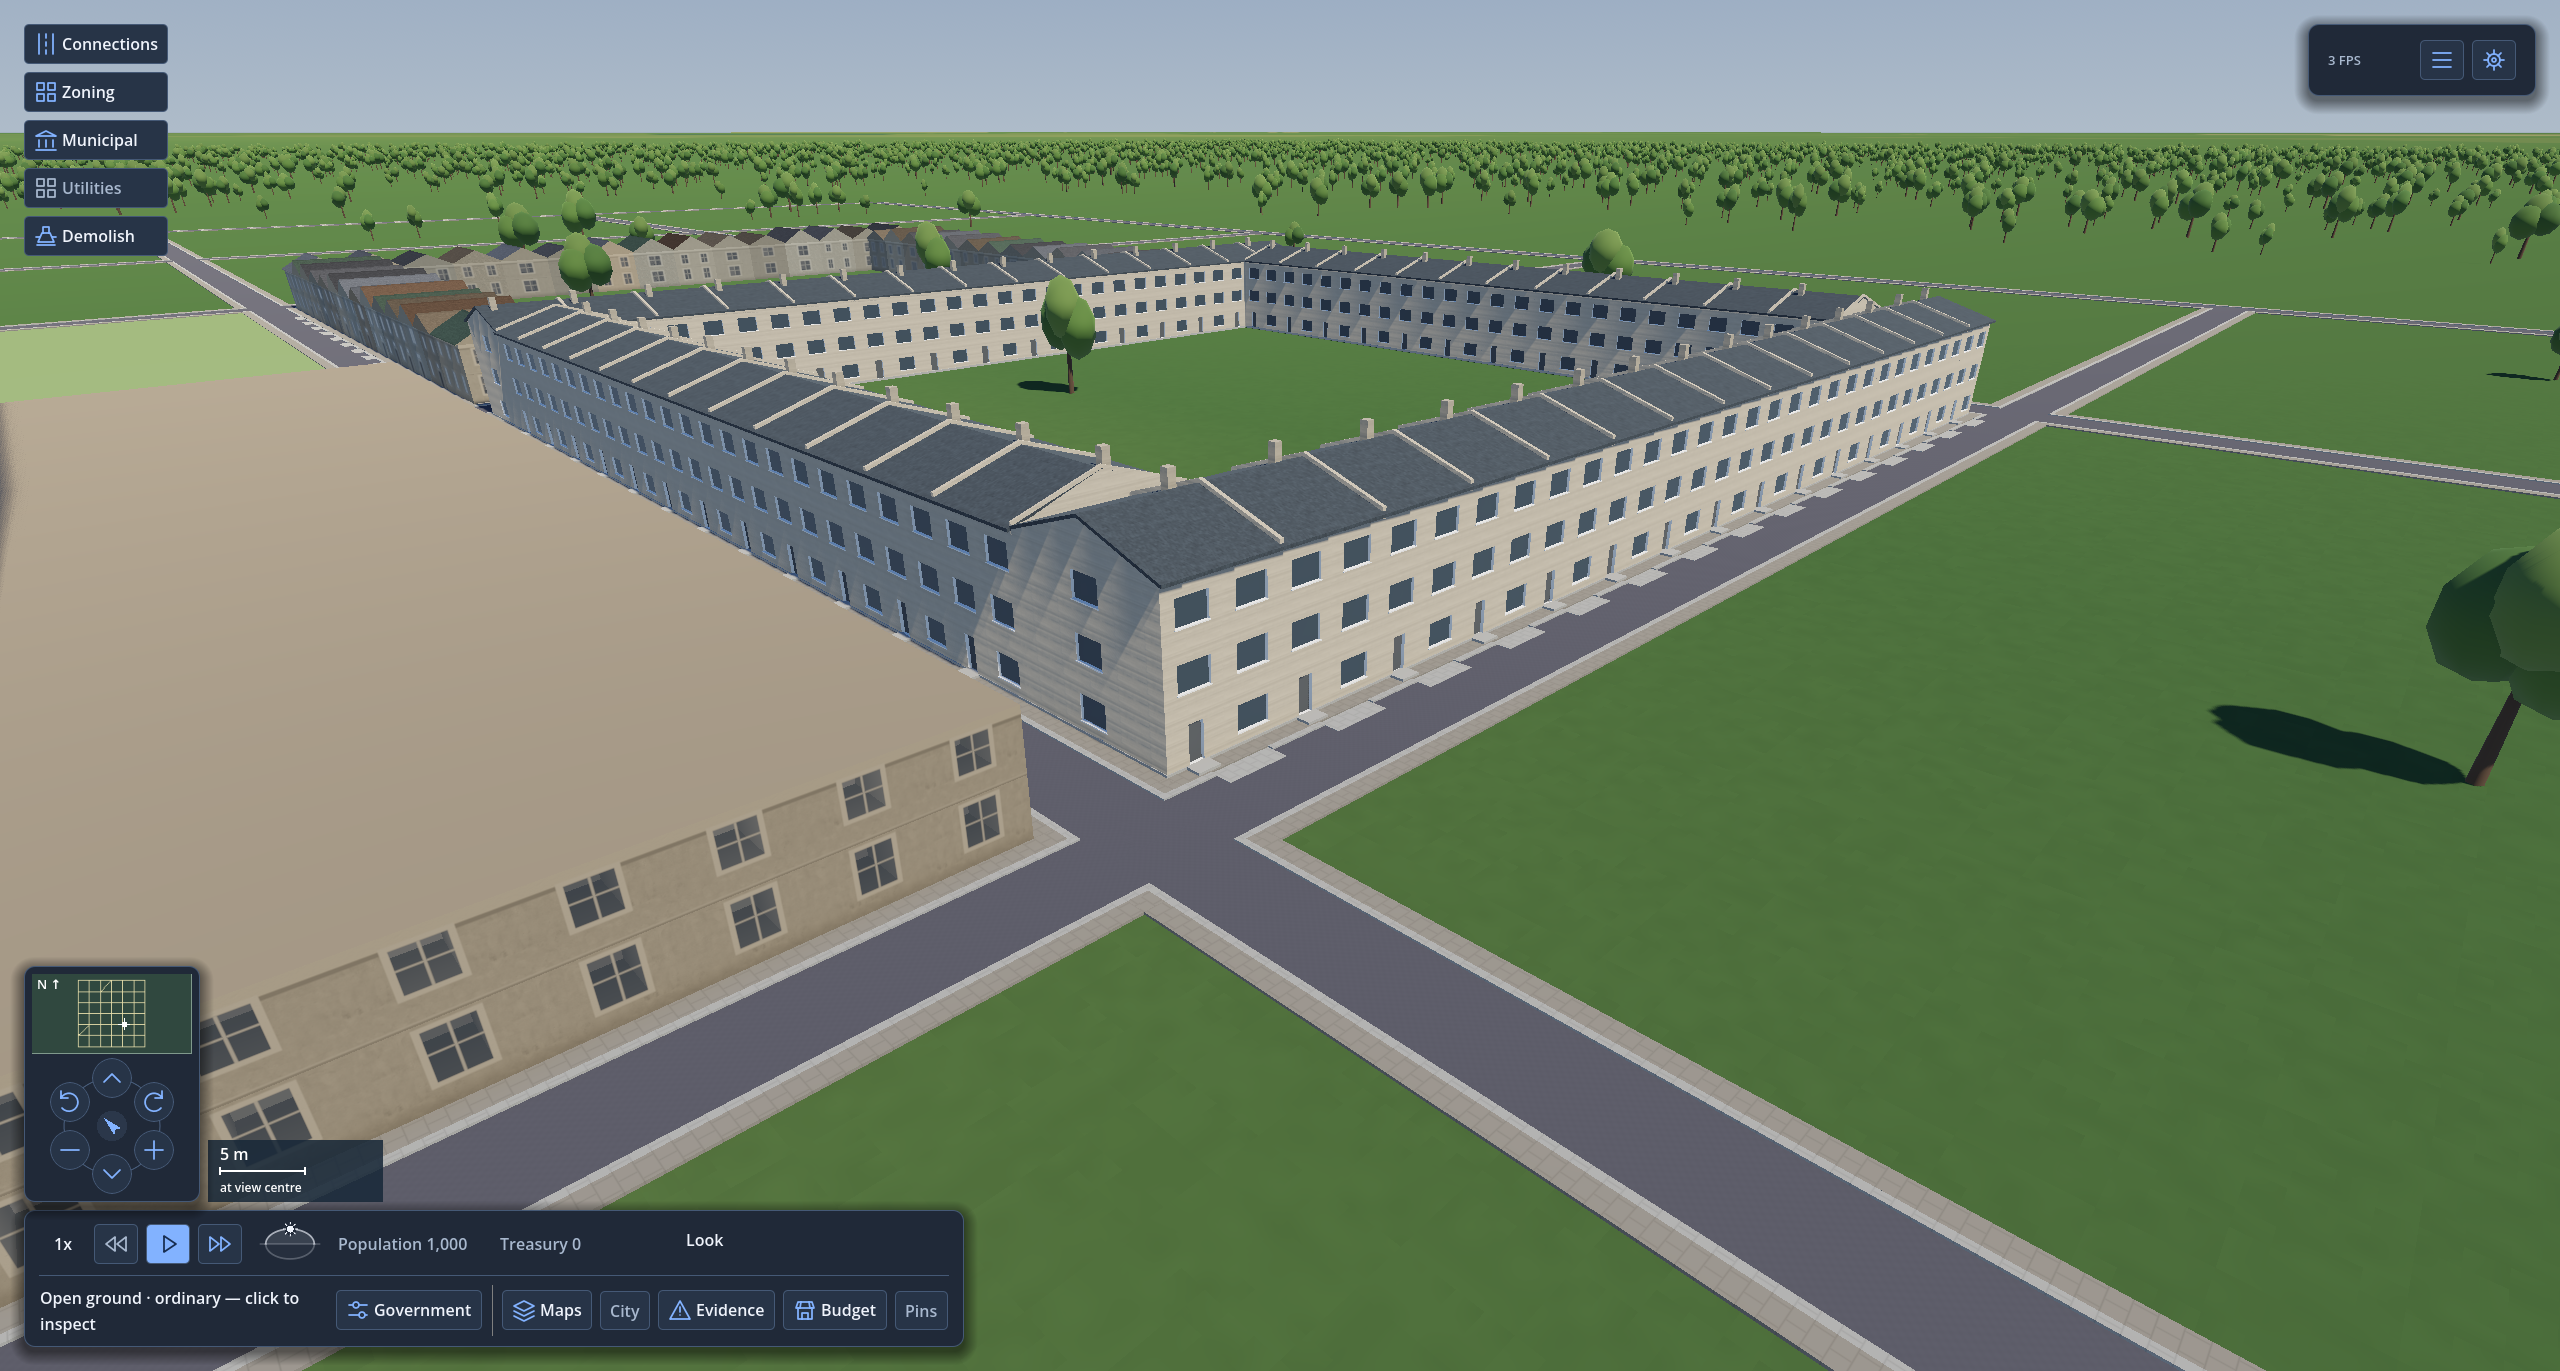
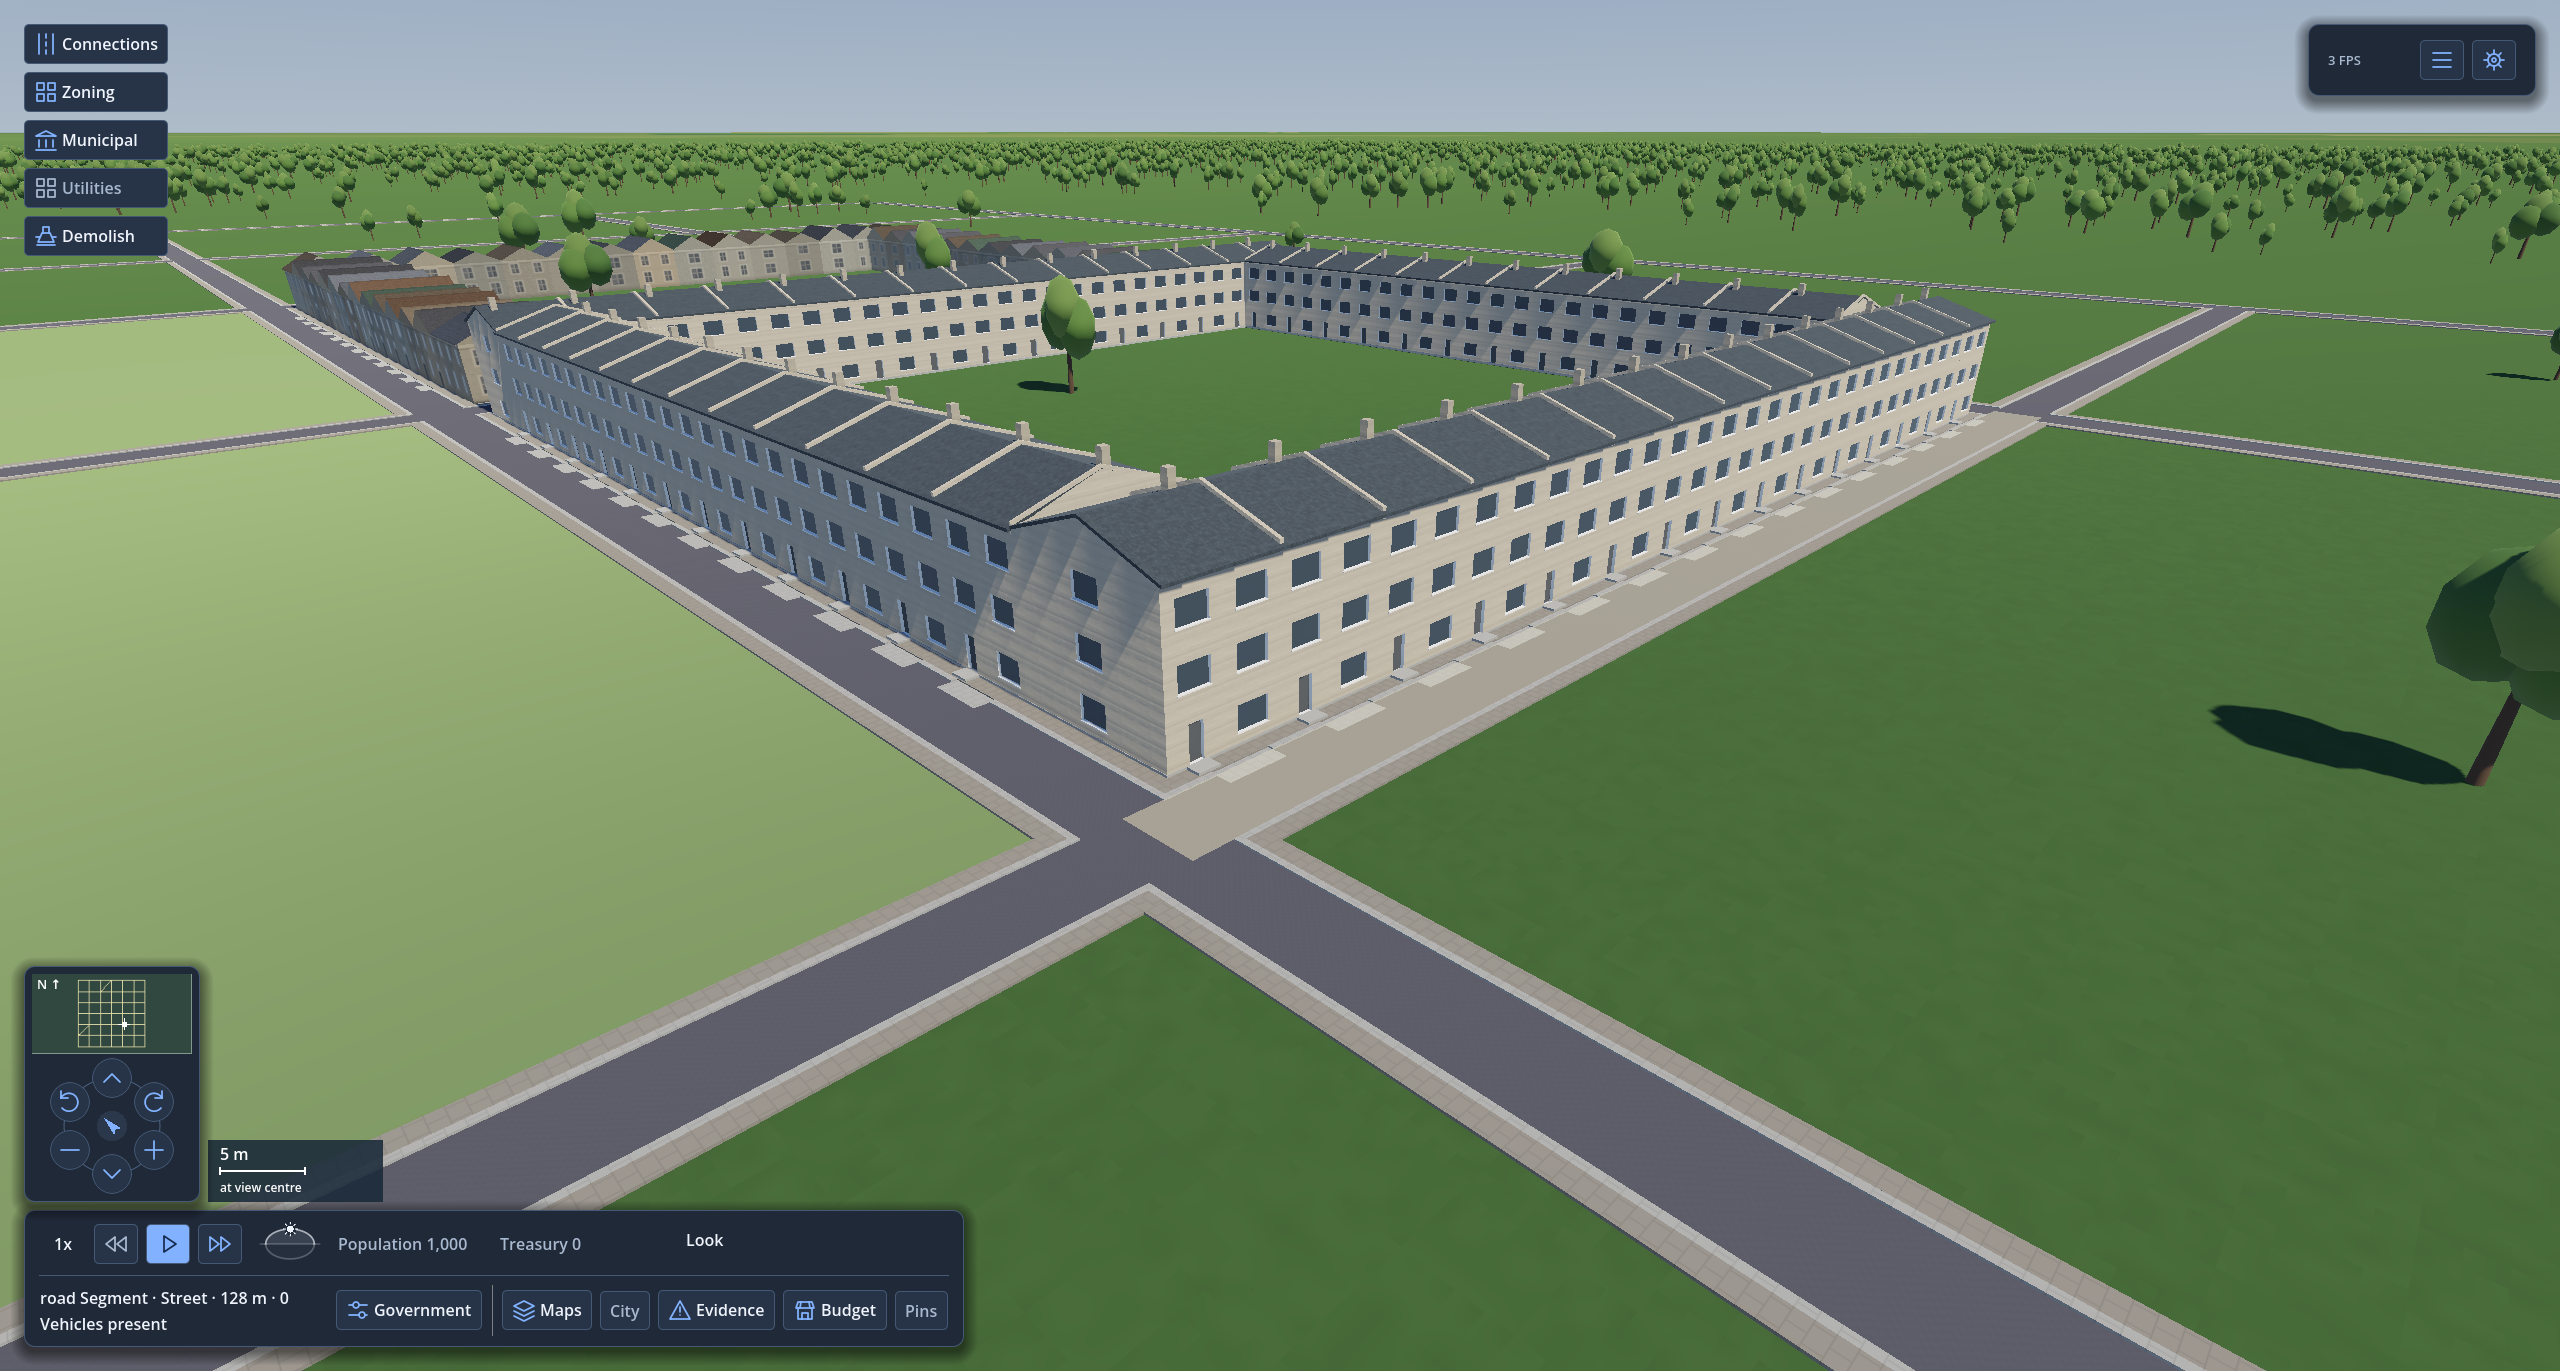
Keep seeded dwellings off bands that refuse housing
SyntheticCity checked a Lot's zone before raising a dwelling but not
its band, so the rowhouse fixture's densest band, which admits no
housing, still got a 20-storey slab at Tick 0. The populator now
applies the band cap as every Zone Rule does. No shipped Ruleset's
golden moves: every other band that exists admits housing.

diff --git a/tests/Borough.Tests/Rules/PopulatorBandTests.cs b/tests/Borough.Tests/Rules/PopulatorBandTests.cs
@@ -1,0 +1,29 @@
+using Borough.Core.Determinism;
+using Borough.Core.Entities;
+using Borough.Core.Quantities;
+using Borough.Formats;
+
+namespace Borough.Tests.Rules;
+
+public sealed class PopulatorBandTests
+{
+    [Fact]
+    public void The_populator_raises_no_dwelling_on_a_band_that_refuses_housing()
+    {
+        var loaded = RulesetLoader.Load(Path.Combine(AppContext.BaseDirectory, "Rulesets", "rowhouses.toml"));
+        Assert.True(loaded.Ok, loaded.Describe());
+        var key = WorldKey.FromSeed(0);
+        var world = new World(1000, loaded.Ruleset!, key);
+        SyntheticCity.PopulateInto(world, key, Ticks.Zero);
+
+        int raised = 0;
+        for (int slot = 0; slot < world.Buildings.Rows.SlotCount; slot++)
+        {
+            if (!world.Buildings.Rows.IsLive(slot) || !world.Lots.Rows.TryResolve(world.Buildings.Lot[slot], out int lot)) continue;
+            raised++;
+            Assert.NotEqual(0, world.BandAdmitting(lot) & LotTable.Housing);
+        }
+
+        Assert.True(raised > 0);
+    }
+}

diff --git a/src/Borough.Core/Entities/SyntheticCity.cs b/src/Borough.Core/Entities/SyntheticCity.cs
@@ -717,7 +717,10 @@ public static class SyntheticCity
             // failure. ***That is plans/0044 P6 -- the split's failure mode is silent, and it is
             // silent in the one world that matters*** -- reached through the populator instead of
             // through the painter.
-            if ((world.Lots.Zone[slot] & Housing) == 0)
+            //
+            // The band caps the zone here as it does for every Zone Rule (adr/0025), so a band that
+            // refuses housing is not built on either.
+            if ((world.Lots.Zone[slot] & world.BandAdmitting(slot) & Housing) == 0)
             {
                 continue;
             }

diff --git a/plans/appearance-families.md b/plans/appearance-families.md
@@ -63,7 +63,8 @@ A rowhouses Building is one house. The shell probes half a metre outside the mid
 wall; where another Building's footprint covers the probe, that wall is a party wall. A party wall
 is blank, the gable stops at it rather than overhanging, and a half-thickness upstand rises above
 it, so two neighbours make one whole upstand. `rulesets/rowhouses.toml` is the fixture: perimeter
-blocks carved into 8 × 12 m house plots with no setback.
+blocks carved into 8 × 12 m house plots with no setback. Its three denser bands admit only zone
+bit 1, which nothing builds on, so the middle of the city stays empty.
 
 `FamilyBodyBuilder` ports the vocabulary of `scripts/art/test-street.py`. The shell draws the result
 in place of the massing with `ui family-bodies on`.
